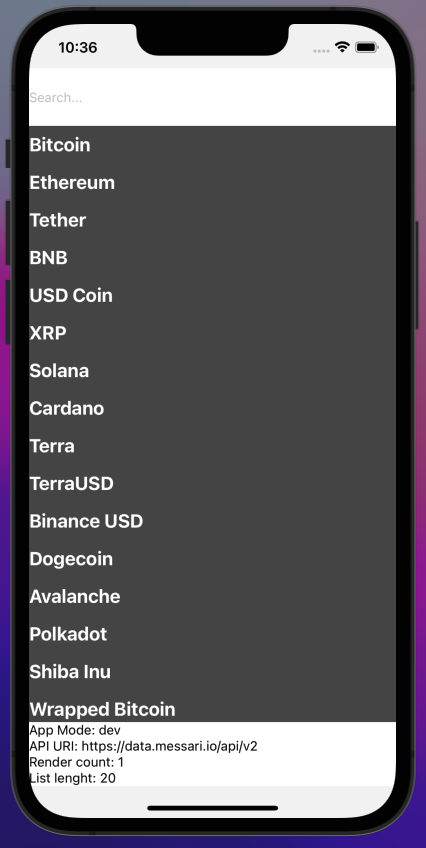
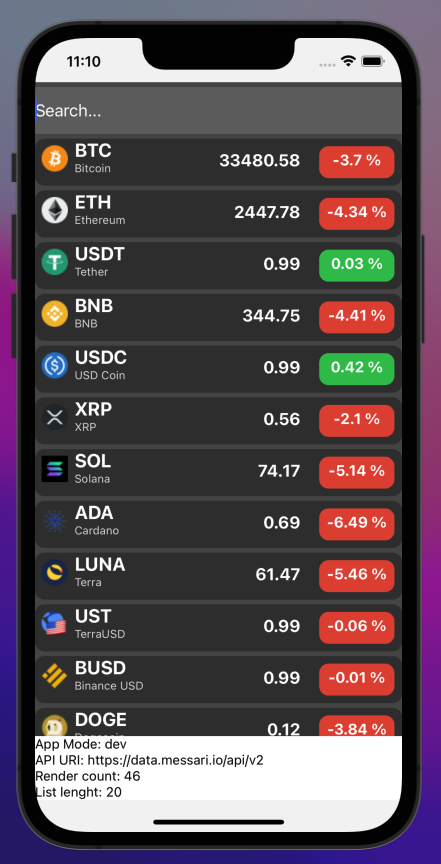
Draft: Portfolio data & style draft

diff --git a/src/views/CryptoPortfolio.tsx b/src/views/CryptoPortfolio.tsx
@@ -1,0 +1,156 @@
+import React, { useEffect, useMemo, useState } from 'react';
+import type { FunctionComponent } from 'react';
+
+import {
+    View, TextInput, FlatList, Text, StyleSheet, TouchableOpacity, Image,
+} from 'react-native';
+import Assets from '../services/assets';
+
+import Config from 'react-native-config'
+
+export const CryptoPortfolio: FunctionComponent = ()=>{
+
+    const [jsonResponse, setJsonResponse] = useState(null)
+    const [count, setCount] = useState(0)
+    const [assets, setAssets] = useState([])
+
+    const service = useMemo(()=>{
+        return new Assets()
+    },[])
+
+    useMemo(()=>{
+        if(!jsonResponse) {
+            return
+        }
+        setAssets(jsonResponse)
+    },[jsonResponse])
+    
+
+    useEffect(()=>{
+        setCount(count+1)
+        service.getAll().then((jsonResponse)=>{
+            setJsonResponse(jsonResponse.data)
+        })
+    }, [service])
+
+    const TempDebugSection = ()=>{
+        return (
+            <View style={{backgroundColor: 'white'}}> 
+                <Text>App Mode: {Config.APP_MODE}</Text>
+                <Text>API URI: {Config.API_BASE_URI}</Text>
+                <Text>Render count: {count}</Text>
+                <Text>List lenght: {assets.length}</Text>
+            </View>
+        )
+    }
+
+    return (
+        <View style={styles.container}>
+            <TextInput style={styles.searchInput} placeholder='Search...' placeholderTextColor='white'></TextInput>
+            <FlatList 
+                style={styles.list}
+                renderItem={({item})=>{
+
+                    const imgSourceURI = `${Config.API_IMG_URI}/${item.id}/32.png?v=2`
+
+                    const { market_data } = item.metrics
+
+                    const price_usd = Math.trunc(market_data.price_usd*100)/100
+                    const percent_change_usd_last_24_hours = Math.trunc(market_data.percent_change_usd_last_24_hours*100)/100
+
+                    const deltaStyle = {
+                        ...styles.itemDelta,
+                        ...(percent_change_usd_last_24_hours >= 0 ? styles.itemDeltaInc: styles.itemDeltaDec)
+                    }
+
+                    return (
+                        <TouchableOpacity style={styles.item}>
+                            <Image source={{uri: imgSourceURI}} style={styles.itemImage}></Image>
+                            <View style={styles.itemName}>
+                                <Text style={styles.itemText}>{item.symbol}</Text>
+                                <Text style={styles.itemSubtitle}>{item.name}</Text>
+                            </View>
+                            <Text style={{ ...styles.itemText, ...styles.itemPrice}}>{price_usd}</Text>
+                            <View style={deltaStyle}>
+                                <Text style={{ ...styles.itemText, ...styles.itemPercent}}>{percent_change_usd_last_24_hours} %</Text>
+                            </View>
+                        </TouchableOpacity>
+                    )
+                }}
+                data={assets}/>
+            <TempDebugSection/>
+        </View>
+    )
+}
+
+const styles = StyleSheet.create({
+    container: {
+      flexDirection: 'column',
+      display: 'flex',
+      justifyContent: 'space-between',
+      height: '100%',
+      backgroundColor: '#4d4d4d'
+    },
+    searchInput: {
+        height: 50,
+        marginTop: 5,
+        backgroundColor: '#666',
+        color: 'white',
+        fontSize: 18,
+    },
+    list: {
+    },
+    item: {
+        width: '100%',
+        height: 50,
+        color: 'white',
+        display: 'flex',
+        flexDirection: 'row',
+        justifyContent: 'space-between',
+        backgroundColor: '#333',
+        marginTop: 5,
+        borderRadius: 10,
+    },
+    itemName: {
+        flexGrow: 1
+    },
+    itemText: {
+        color: 'white',
+        fontSize: 20,
+        fontWeight: 'bold',
+    },
+    itemSubtitle: {
+        color: '#ddd',
+        fontSize: 12,
+    },
+    itemPrice: {
+        textAlign: 'right',
+        fontSize: 18,
+        fontWeight: 'bold',
+        margin: 12,
+    },
+    itemImage: {
+        height: 28,
+        width: 28,
+        margin: 7,
+    },
+    itemDelta: {
+        borderRadius: 10,
+        flexGrow: 0,
+        minWidth: 80,
+        margin: 8,
+        textAlign: 'center',
+    },
+    itemDeltaInc:{
+        backgroundColor: '#36c252',
+    },
+    itemDeltaDec:{
+        backgroundColor: '#e04638',
+    },
+    itemPercent: {
+        textAlign: 'center',
+        fontSize: 16,
+        fontWeight: 'bold',
+        margin:5
+    },
+  });

diff --git a/App.tsx b/App.tsx
@@ -18,7 +18,7 @@ import {
 import {
   Colors
 } from 'react-native/Libraries/NewAppScreen';
-import { CryptoPortfolio } from './src/CryptoPortfolio';
+import { CryptoPortfolio } from './src/views/CryptoPortfolio';
 
 const App = () => {
   const isDarkMode = useColorScheme() === 'dark';
